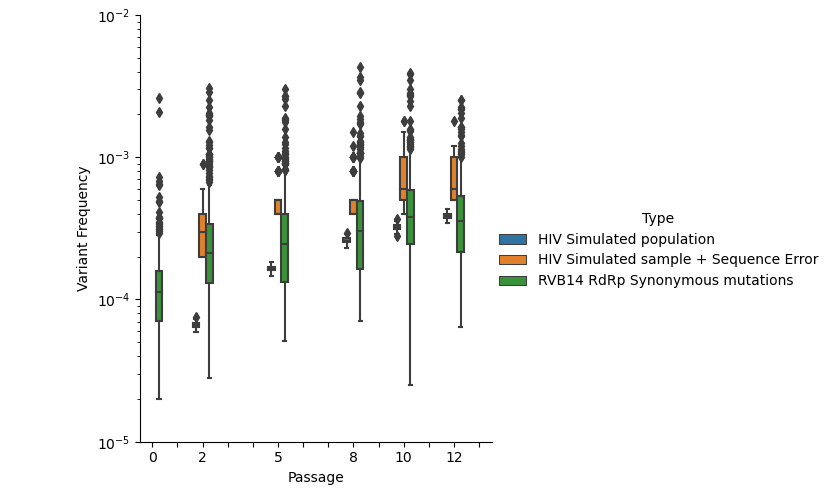
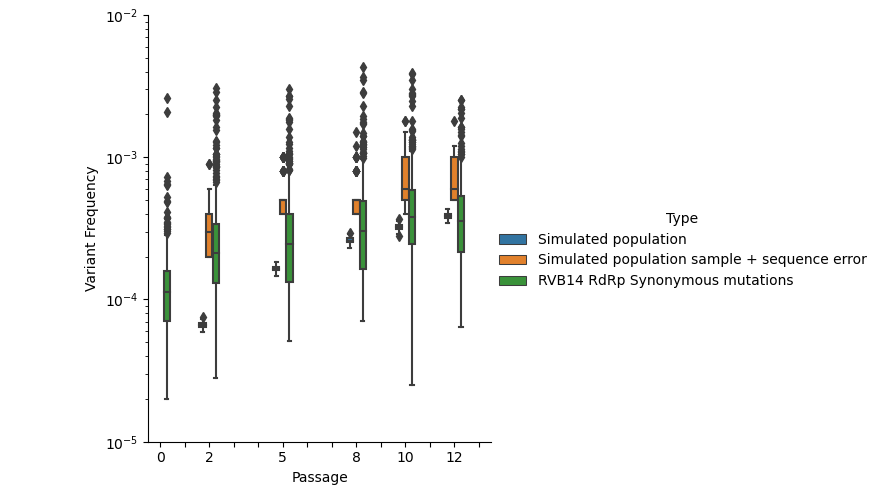
20220904 FFPopSim

diff --git a/analyse_ffpopsim.py b/analyse_ffpopsim.py
@@ -134,14 +134,14 @@ def plot_sim_noisy(generations):
         united_df = pd.concat([united_df, hiv_df])
     united_df_sim = united_df.copy()
     united_df_sim = united_df_sim.drop(["New_freq", "Noisy_freq"], axis=1)
-    united_df_sim["Type"] = "HIV Simulated population"
+    united_df_sim["Type"] = "Simulated population"
     united_df_sample = united_df.copy()
     united_df_sample = united_df_sample.drop(["frequency", "Noisy_freq"], axis=1)
-    united_df_sample["Type"] = "HIV Simulated sample"
+    united_df_sample["Type"] = "Simulated population sample"
     united_df_sample = united_df_sample.rename(columns={"New_freq": "frequency"})
     united_df_noisy = united_df.copy()
     united_df_noisy = united_df_noisy.drop(["frequency", "New_freq"], axis=1)
-    united_df_noisy["Type"] = "HIV Simulated sample + Sequence Error"
+    united_df_noisy["Type"] = "Simulated population sample + sequence error"
     united_df_noisy = united_df_noisy.rename(columns={"Noisy_freq": "frequency"})
     united_df_noisy["log_frequency"] = np.log10(united_df_noisy["frequency"])
     rv_data = pd.read_csv("table.csv")
@@ -159,8 +159,8 @@ def plot_sim_noisy(generations):
 
     united_df_noisy_passage2 = united_df_noisy[united_df_noisy["gen"] == 2]
     rv_data_passage0 = rv_data[rv_data["gen"] == 0]
-    print("mean of HIV Simulated sample + Sequence Error: {0}".format(round(united_df_noisy_passage2["log_frequency"].mean(), 2)))
-    print("std of HIV Simulated sample + Sequence Error: {0}".format(round(united_df_noisy_passage2["log_frequency"].std(), 2)))
+    print("mean of Simulated population sample + sequence error: {0}".format(round(united_df_noisy_passage2["log_frequency"].mean(), 2)))
+    print("std of Simulated population sample + sequence error: {0}".format(round(united_df_noisy_passage2["log_frequency"].std(), 2)))
     print("mean of RVB14 RdRp Synonymous mutations: {0}".format(round(rv_data_passage0["log_frequency"].mean(), 2)))
     print("std of RVB14 RdRp Synonymous mutations: {0}".format(round(rv_data_passage0["log_frequency"].std(), 2)))
 
@@ -177,9 +177,11 @@ def main():
     np.save("pop_arr_noise.npy", pop_arr_noise)
     plot_sim_noisy(generations)
 
+    """Arrnge the data for FITS"""
     df_all = united_table_for_fits(generations, freq_type="Noisy_freq")
     df_all.to_csv("sim_data_hiv_noisy.txt", index=False, sep="\t")
 
+    """Debugging seq_error_noise"""
     # sim_pop_new = np.load("sim_pop_new.npy")
     # pop_arr_noise = seq_error_noise(sim_pop_new, data_error_dist)
 

diff --git a/fits_ploter.py b/fits_ploter.py
@@ -143,11 +143,11 @@ def qqplot(x, y, **kwargs):
 def main():
     sim_data = pd.read_table("FITS/sim_data_hiv/posterior_mutation_syn.txt", header=0)
     sim_data = sim_data[["allele0_1"]]
-    sim_data["Type"] = "HIV Simulated sample"
+    sim_data["Type"] = "Simulated population sample"
     sim_data = sim_data.rename(columns={"allele0_1": "Mutation rate"})
     sim_data_noisy = pd.read_table("FITS/sim_data_hiv_noisy/posterior_mutation_syn.txt", header=0)
     sim_data_noisy = sim_data_noisy[["allele0_1"]]
-    sim_data_noisy["Type"] = "HIV Simulated sample + Sequence Error"
+    sim_data_noisy["Type"] = "Simulated population sample + sequence error"
     sim_data_noisy = sim_data_noisy.rename(columns={"allele0_1": "Mutation rate"})
 
     all_data = pd.concat([sim_data, sim_data_noisy], sort=False)
@@ -156,13 +156,8 @@ def main():
     all_data["Mutation rate"] = pd.to_numeric(all_data["Mutation rate"], errors='coerce')
     all_data["Mutation"] = "Mutation"
 
-    # q1 = all_data["Mutation rate"].quantile(0.25)
-    # q3 = all_data["Mutation rate"].quantile(0.75)
-    # all_data = all_data[all_data["Mutation rate"] > q1]
-    # all_data = all_data[all_data["Mutation rate"] < q3]
-
     #Plots
-    hue_order = ["HIV Simulated sample", "HIV Simulated sample + Sequence Error"]
+    hue_order = ["Simulated population sample", "Simulated population sample + sequence error"]
     plt.style.use('classic')
     sns.set_palette("Set2")
     g1 = sns.violinplot(x="Mutation", y="Mutation rate", hue="Type", data=all_data, hue_order=hue_order)
@@ -170,7 +165,7 @@ def main():
     g1.set_ylim(10**-10, 10**-1)
     g1.set_xticklabels("")
     g1.set(xlabel="Major allele > Minor allele")
-    pairs = [(("Mutation", "HIV Simulated sample"), ("Mutation", "HIV Simulated sample + Sequence Error"))]
+    pairs = [(("Mutation", "Simulated population sample"), ("Mutation", "Simulated population sample + sequence error"))]
     annot = Annotator(g1, pairs, x="Mutation", y="Mutation rate", hue="Type", data=all_data, hue_order=hue_order)
     annot.configure(test='Mann-Whitney', text_format='star', loc='outside', verbose=2,
                     comparisons_correction="Bonferroni")
